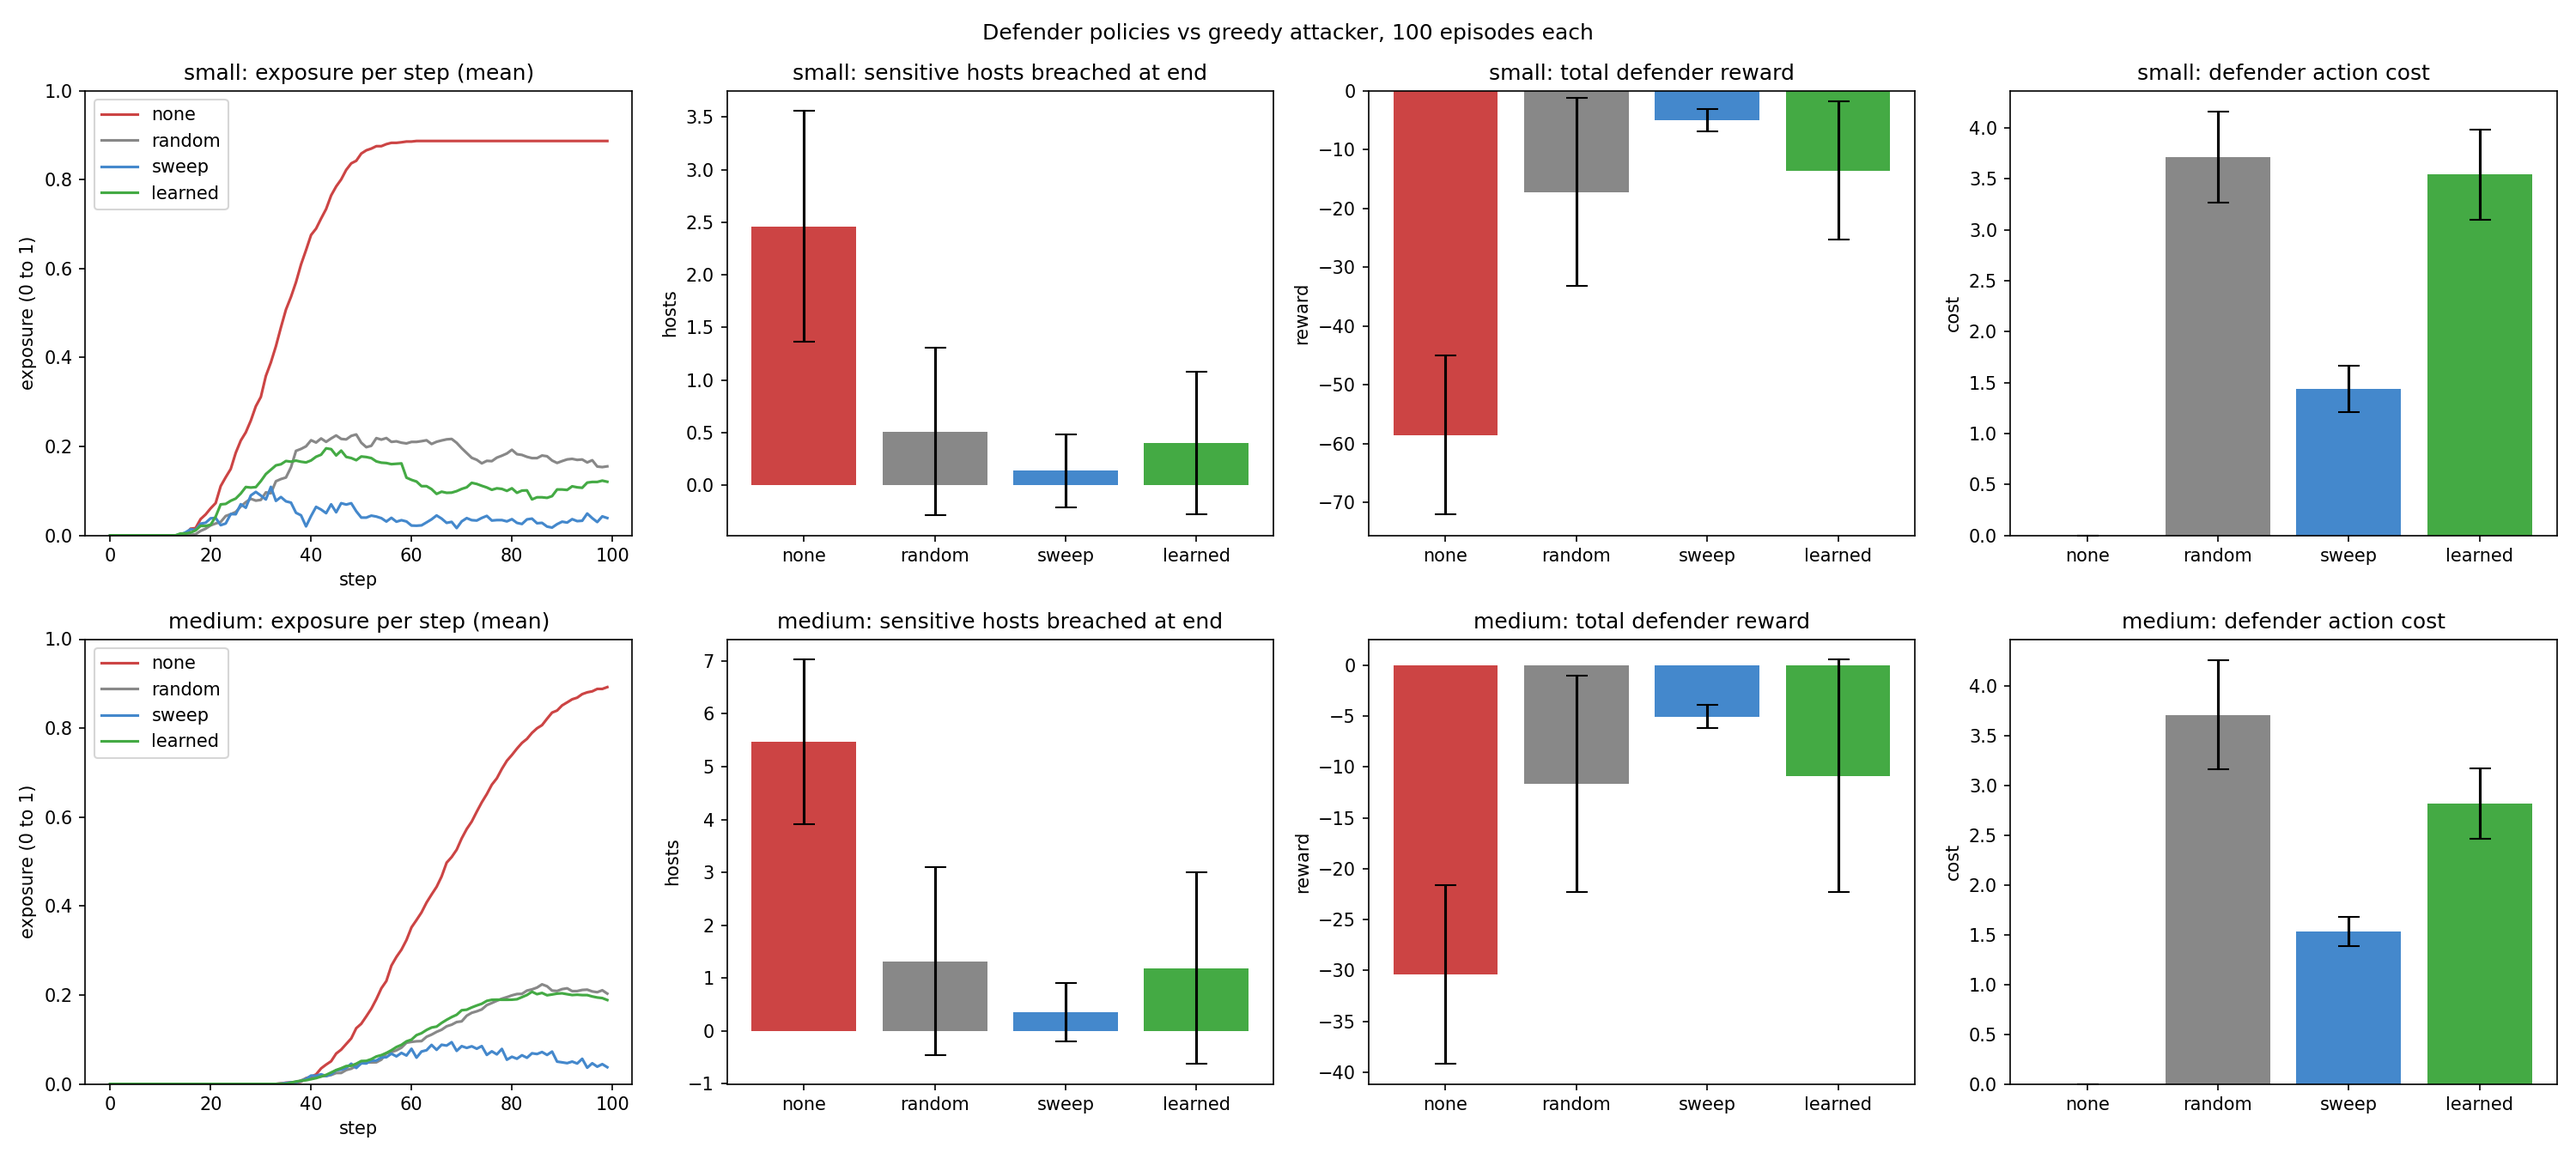
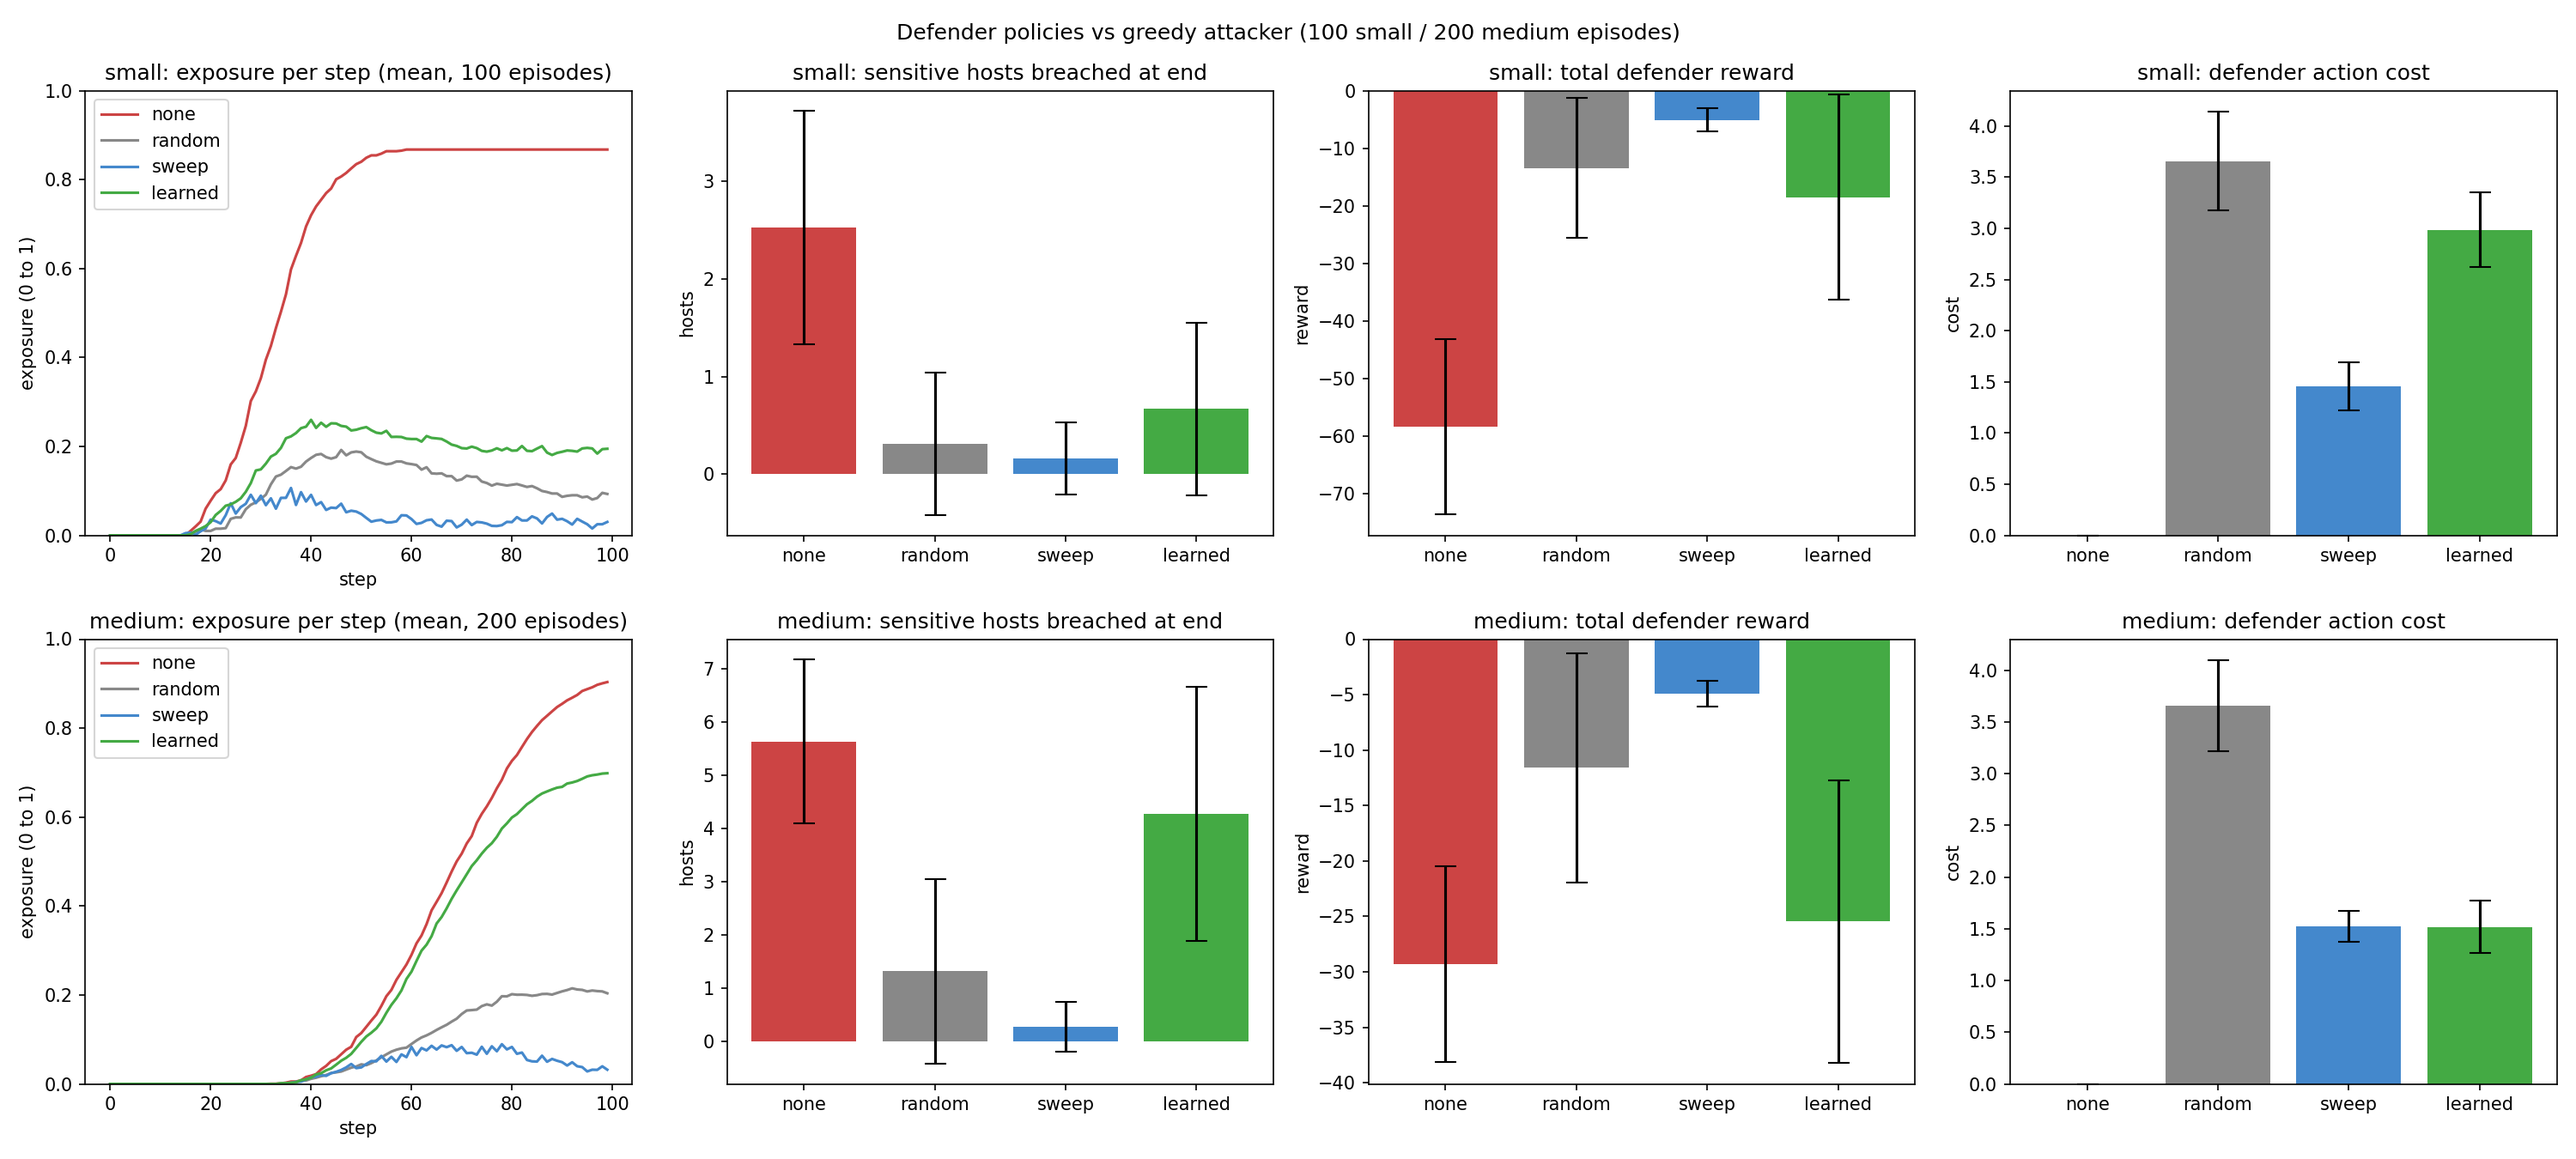
Run medium defender tests for 200 episodes

diff --git a/defender_gym/run_defender.py b/defender_gym/run_defender.py
@@ -1,18 +1,21 @@
 """Isolated test of the defender policies (same idea as run_attacker.py).
- 
+
 Plays each defender policy for N episodes against a fixed attacker, on the
 small and the medium scenario, prints the average results, and saves a
 chart to defender_vs_<attacker>.png.
- 
+
 Usage (from inside defender_gym/, with the venv active):
     python run_defender.py ../NASimEmu-master/scenarios [episodes] [greedy|random]
- 
+
+[episodes] sets the small scenario (default 100). Medium always runs
+MEDIUM_EPISODES (200); change it below if needed.
+
 What a healthy result looks like:
     - none is the worst (or tied worst) on exposure: it is the baseline
     - sweep beats none and random on exposure, at some action cost
     - learned (untrained) scores about the same as random
     - learned never picks a padded (non-existent) host row
- 
+
 "win %" is the share of episodes that end with no sensitive host breached
 (the defender win rate from the proposal). "vs none" is the defender's mean
 reward minus NoDefense's on the same size, so positive = better than doing
@@ -22,22 +25,22 @@ cost (Monitor 0.01, Restore 0.1) is flat: it charges every Restore the same,
 so it does NOT penalize false positives specifically.
 """
 import sys
- 
+
 import matplotlib
 matplotlib.use("Agg")  # save to a file, no window needed
 import matplotlib.pyplot as plt
 import numpy as np
- 
+
 from env import DefenderEnv, RESTORE
 from policies import GreedyAttacker, NoDefense, RandomAttacker, RandomDefender, SweepDefender
- 
+
 # The learned policy needs torch. If torch isn't installed, skip it
 # instead of crashing, so the scripted defenders can still be tested.
 try:
     from policies.learned import LearnedPolicy
 except ImportError:
     LearnedPolicy = None
- 
+
 # Use the two_subnets scenarios: the one_subnet ones have no sensitive hosts,
 # so exposure (and the defender's loss) would always be 0.
 SCENARIOS = {
@@ -45,11 +48,13 @@ SCENARIOS = {
     "medium": "md_entry_dmz_two_subnets",
 }
 ATTACKERS = {"greedy": GreedyAttacker, "random": RandomAttacker}
- 
- 
+# Medium has its own episode count, separate from the [episodes] argument.
+MEDIUM_EPISODES = 200
+
+
 def run_episodes(env, policy, episodes):
     """Play `episodes` full games with `policy` as the defender.
- 
+
     Returns:
       totals   - total defender reward per episode
       breached - sensitive hosts compromised at the end of each episode
@@ -66,7 +71,7 @@ def run_episodes(env, policy, episodes):
         # needs it to restart its sweep).
         obs = env.reset()
         policy.reset()
- 
+
         done, total, paid, n_rest, n_false, bad_picks, curve = False, 0.0, 0.0, 0, 0, 0, []
         while not done:
             mask = env.host_mask()  # True for real hosts, False for padding
@@ -85,7 +90,7 @@ def run_episodes(env, policy, episodes):
             obs, r, done, info = env.step(action)
             total += r
             curve.append(info["exposure"])  # 0 = nothing taken, 1 = all sensitive hosts rooted
- 
+
         totals.append(total)
         breached.append(info["breached"])
         cost.append(paid)
@@ -96,8 +101,8 @@ def run_episodes(env, policy, episodes):
     return dict(totals=np.array(totals), breached=np.array(breached), cost=np.array(cost),
                 restores=np.array(restores), false_r=np.array(false_r),
                 padded=np.array(padded), curve=np.array(curves).mean(axis=0))
- 
- 
+
+
 def make_defenders(env):
     """Build the defenders to test. A new set is made per scenario."""
     defenders = {"none": NoDefense(), "random": RandomDefender(), "sweep": SweepDefender()}
@@ -106,30 +111,31 @@ def make_defenders(env):
         # (4 features per host, 3 action kinds).
         defenders["learned"] = LearnedPolicy.for_env(env)
     return defenders
- 
- 
+
+
 if __name__ == "__main__":
     folder = sys.argv[1] if len(sys.argv) > 1 else "scenarios"
     episodes = int(sys.argv[2]) if len(sys.argv) > 2 else 100
     attacker_name = sys.argv[3] if len(sys.argv) > 3 else "greedy"
- 
+
     if LearnedPolicy is None:
         print("torch not installed: skipping the learned policy\n")
- 
+
     # results[size][label] = dict from run_episodes, used for the chart
     results = {}
+    n_episodes = {"small": episodes, "medium": MEDIUM_EPISODES}
     for size, name in SCENARIOS.items():
         # The attacker is fixed for the whole run, like NoDefense was fixed
         # in run_attacker.py. Greedy is the strongest scripted attacker.
         env = DefenderEnv(f"{folder}/{name}.v2.yaml", attacker=ATTACKERS[attacker_name]())
- 
+
         print(f"=== {size} ({name}) vs {attacker_name} attacker, "
-              f"{episodes} episodes x {env.max_steps} steps")
+              f"{n_episodes[size]} episodes x {env.max_steps} steps")
         print(f"{'defender':<9} {'reward (mean +- std)':>22} {'vs none':>8} {'breached':>9} "
               f"{'win %':>6} {'cost':>6} {'restores':>9} {'false restores':>15} {'padded':>7}")
         results[size] = {}
         for label, policy in make_defenders(env).items():
-            res = run_episodes(env, policy, episodes)
+            res = run_episodes(env, policy, n_episodes[size])
             results[size][label] = res
             t = res["totals"]
             gap = t.mean() - results[size]["none"]["totals"].mean()  # "none" runs first
@@ -138,7 +144,7 @@ if __name__ == "__main__":
                   f"{res['cost'].mean():>6.2f} {res['restores'].mean():>9.1f} "
                   f"{res['false_r'].mean():>15.1f} {res['padded'].sum():>7d}")
         print()
- 
+
     # Chart: one row per scenario size, four panels per row.
     #   1 - exposure over the episode (lower = better defense)
     #   2 - sensitive hosts breached at the end (lower = better)
@@ -149,15 +155,15 @@ if __name__ == "__main__":
     for (size, by_def), (ax1, ax2, ax3, ax4) in zip(results.items(), axes):
         labels = list(by_def)
         bar_colors = [colors[l] for l in labels]
- 
+
         for label, res in by_def.items():
             ax1.plot(res["curve"], label=label, color=colors[label])
-        ax1.set_title(f"{size}: exposure per step (mean)")
+        ax1.set_title(f"{size}: exposure per step (mean, {n_episodes[size]} episodes)")
         ax1.set_xlabel("step")
         ax1.set_ylabel("exposure (0 to 1)")
         ax1.set_ylim(0, 1)
         ax1.legend()
- 
+
         # Bars show the mean, error bars show one standard deviation.
         for ax, key, title, ylabel in [
                 (ax2, "breached", "sensitive hosts breached at end", "hosts"),
@@ -168,10 +174,10 @@ if __name__ == "__main__":
                    capsize=6, color=bar_colors)
             ax.set_title(f"{size}: {title}")
             ax.set_ylabel(ylabel)
- 
-    fig.suptitle(f"Defender policies vs {attacker_name} attacker, {episodes} episodes each")
+
+    fig.suptitle(f"Defender policies vs {attacker_name} attacker "
+                 f"({n_episodes['small']} small / {n_episodes['medium']} medium episodes)")
     fig.tight_layout()
     out = f"defender_vs_{attacker_name}.png"
     fig.savefig(out, dpi=150)
     print(f"Saved chart to {out}")
- 
